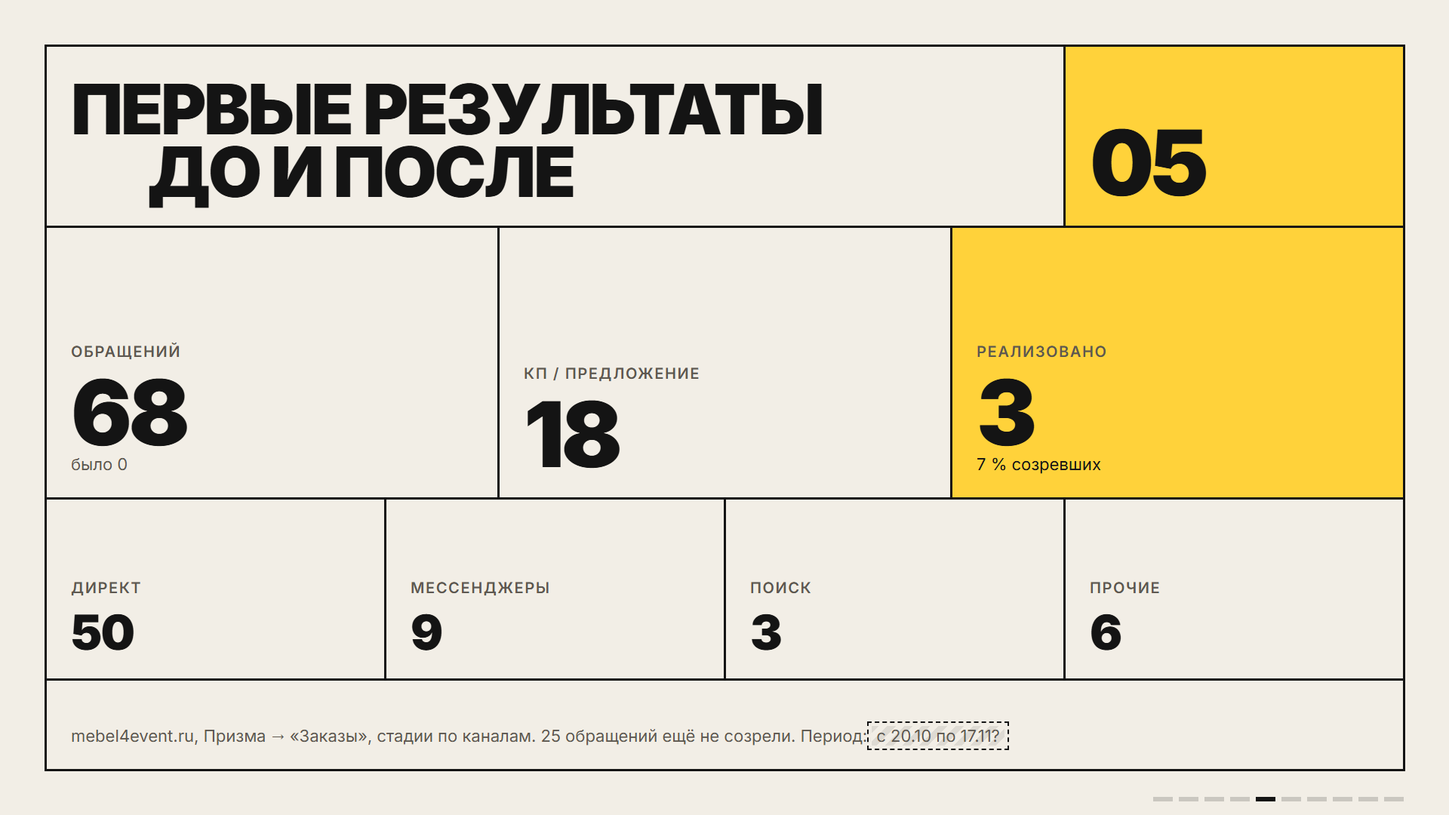
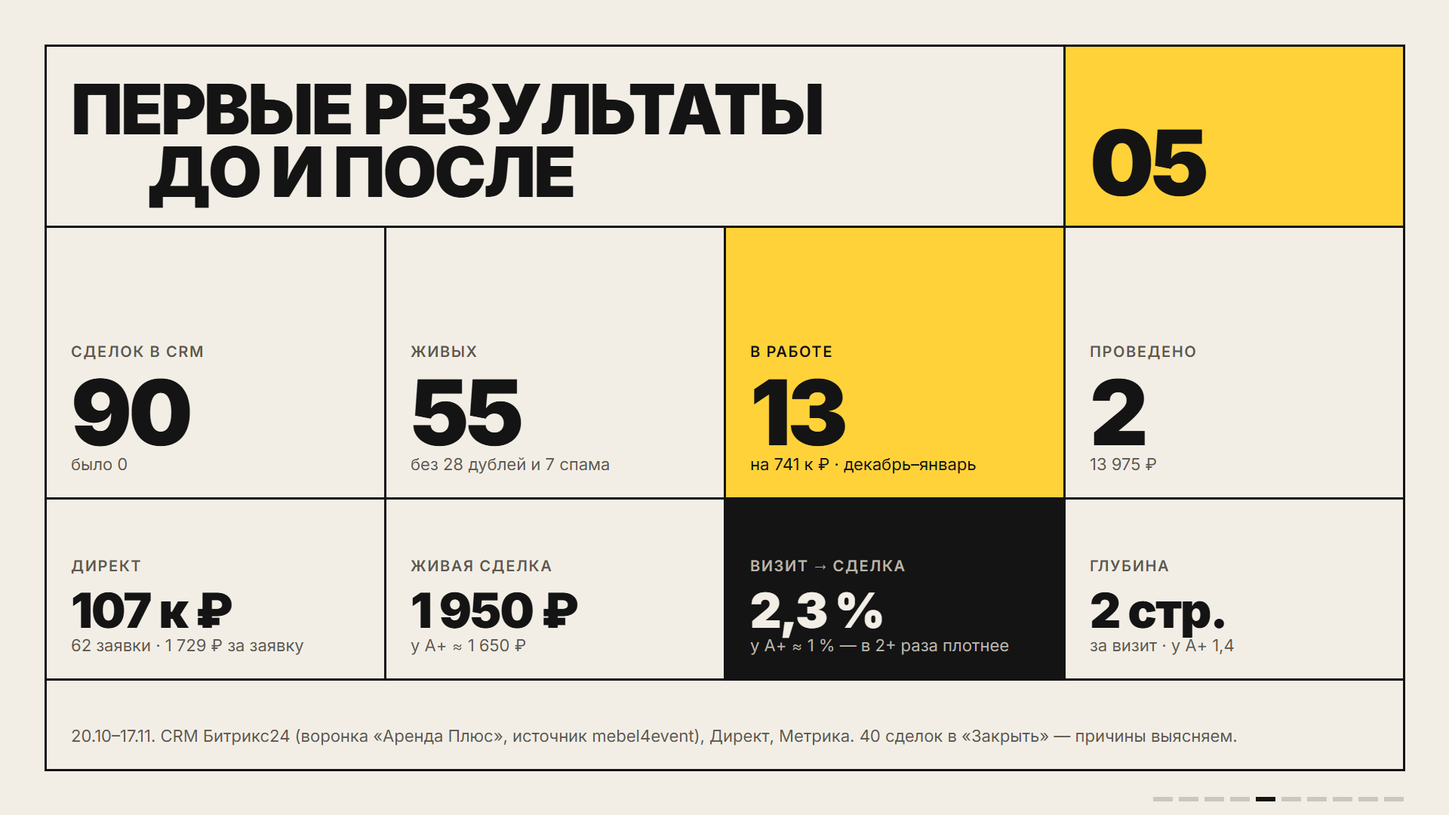
Преза Фабрики: данные CRM, Директа, Метрики, расчёт под план и тематики (Связь т.11 №196)

diff --git a/index.html b/index.html
@@ -31,13 +31,14 @@
     <div class="grid">
       <div class="c" style="grid-area: 1 / 1 / 3 / 10"><h2>Как работали<br><span class="shift">до внедрения</span></h2></div>
       <div class="c a" style="grid-area: 1 / 10 / 3 / 13"><p class="big">02</p></div>
-      <div class="c" style="grid-area: 3 / 1 / 5 / 5"><p class="k">Проблема</p><p>Трафику Аренды+ нужны сайты под кластеры спроса: шатры, мебель, питание, активности</p></div>
-      <div class="c" style="grid-area: 3 / 5 / 5 / 9"><p class="k">Как делали</p><p>Каждый сайт — вёрстка руками: дизайн, каталог, цены, фото, формы заявок</p></div>
-      <div class="c" style="grid-area: 3 / 9 / 5 / 13"><p class="k">Источник</p><p>Чат «Увеличение трафика Аренда+», 30.09</p></div>
-      <div class="c" style="grid-area: 5 / 1 / 7 / 5"><p class="k">Время на сайт</p><p class="mid-n">недели</p><p class="small">оценка, замера не было</p></div>
-      <div class="c" style="grid-area: 5 / 5 / 7 / 9"><p class="k">Сайтов под ниши</p><p class="mid-n">0</p></div>
-      <div class="c" style="grid-area: 5 / 9 / 7 / 13"><p class="k">Обращений с них</p><p class="mid-n">0</p></div>
-      <div class="c" style="grid-area: 7 / 1 / 9 / 13"><p class="small">Исходная точка — ноль нишевых сайтов: сравниваем не «быстрее», а «было ничего — стали обращения».</p></div>
+      <div class="c" style="grid-area: 3 / 1 / 5 / 5"><p class="k">Проблема</p><p>Трафику Аренды+ нужны сайты под кластеры спроса: шатры, мебель, кейтеринг, активности</p></div>
+      <div class="c" style="grid-area: 3 / 5 / 5 / 9"><p class="k">Как делали</p><p>Каждый сайт — вёрстка руками: дизайн, каталог, цены, фото, заявки. Недели на сайт</p></div>
+      <div class="c" style="grid-area: 3 / 9 / 5 / 13"><p class="k">Нишевых сайтов</p><p class="mid-n">0</p><p class="small">весь спрос — на один сайт А+</p></div>
+      <div class="c" style="grid-area: 5 / 1 / 8 / 4"><p class="k">А+ · визитов в день</p><p class="mid-n">5–7 тыс.</p><p class="small">октябрь–ноябрь</p></div>
+      <div class="c" style="grid-area: 5 / 4 / 8 / 7"><p class="k">Визит → живая сделка</p><p class="mid-n">≈1 %</p><p class="small">~1,5 тыс. сделок в месяц</p></div>
+      <div class="c" style="grid-area: 5 / 7 / 8 / 10"><p class="k">Сделка → мероприятие</p><p class="mid-n">16 %</p><p class="small">мебель — 12 %</p></div>
+      <div class="c" style="grid-area: 5 / 10 / 8 / 13"><p class="k">Средний чек</p><p class="mid-n">126 к ₽</p><p class="small">мебель — 80 к ₽</p></div>
+      <div class="c" style="grid-area: 8 / 1 / 9 / 13"><p class="small">Сделки А+, созданные в сентябре 2026, без дублей и спама: 1 572 живых → 251 мероприятие → 31,7 млн ₽. CRM Битрикс24, Метрика 24366505.</p></div>
     </div>
   </section>
 
@@ -61,10 +62,10 @@
       <div class="c a" style="grid-area: 1 / 10 / 3 / 13"><p class="big">04</p></div>
       <div class="c pic" style="grid-area: 3 / 1 / 8 / 7"><img class="shot" src="media/mebel.png" alt=""></div>
       <div class="c mid" style="grid-area: 8 / 1 / 9 / 7"><p><a href="https://mebel4event.ru">mebel4event.ru</a> — «Лучшая мебель»</p></div>
-      <div class="c" style="grid-area: 3 / 7 / 5 / 10"><p class="k">С 20 октября</p><p>Сайт в воронке А+: 1 700 позиций, 131 раздел, заявки в Битрикс</p></div>
-      <div class="c" style="grid-area: 3 / 10 / 5 / 13"><p class="k">С 16 ноября</p><p>Стили художников: Малевич, Матисс, Лисицкий, Корбюзье, Калатрава, Мо-Фокеев</p></div>
-      <div class="c" style="grid-area: 5 / 7 / 7 / 13"><p class="k">Кто пользуется</p><p>Контент: собирает сайт в мастере, а не верстает. Менеджеры А+ — принимают обращения с сайта</p></div>
-      <div class="c" style="grid-area: 7 / 7 / 9 / 13"><p class="k">Ограничения</p><p>Пока один боевой сайт. После падения хостинга 02.11 Фабрика переехала на новый сервер</p></div>
+      <div class="c" style="grid-area: 3 / 7 / 5 / 10"><p class="k">С 20 октября</p><p>1 700 позиций, 131 раздел, заявки в Битрикс</p></div>
+      <div class="c" style="grid-area: 3 / 10 / 5 / 13"><p class="k">С 21 октября</p><p>Директ: поиск и товарная кампания</p></div>
+      <div class="c" style="grid-area: 5 / 7 / 7 / 13"><p class="k">Кто пользуется</p><p>Контент собирает сайт в мастере. Менеджеры А+ ведут сделки с сайта в общей воронке — 90 сделок за 4 недели</p></div>
+      <div class="c" style="grid-area: 7 / 7 / 9 / 13"><p class="k">Ограничения</p><p>Один боевой сайт. 2–8 ноября — падение хостинга, реклама вела в пустоту. Стадии сделок не уходят в Метрику</p></div>
     </div>
   </section>
 
@@ -72,14 +73,15 @@
     <div class="grid">
       <div class="c" style="grid-area: 1 / 1 / 3 / 10"><h2>Первые результаты<br><span class="shift">до и после</span></h2></div>
       <div class="c a" style="grid-area: 1 / 10 / 3 / 13"><p class="big">05</p></div>
-      <div class="c" style="grid-area: 3 / 1 / 6 / 5"><p class="k">Обращений</p><p class="big">68</p><p class="small">было 0</p></div>
-      <div class="c" style="grid-area: 3 / 5 / 6 / 9"><p class="k">КП / предложение</p><p class="big">18</p></div>
-      <div class="c a" style="grid-area: 3 / 9 / 6 / 13"><p class="k">Реализовано</p><p class="big">3</p><p class="small" style="color: var(--ink)">7 % созревших</p></div>
-      <div class="c" style="grid-area: 6 / 1 / 8 / 4"><p class="k">Директ</p><p class="mid-n">50</p></div>
-      <div class="c" style="grid-area: 6 / 4 / 8 / 7"><p class="k">Мессенджеры</p><p class="mid-n">9</p></div>
-      <div class="c" style="grid-area: 6 / 7 / 8 / 10"><p class="k">Поиск</p><p class="mid-n">3</p></div>
-      <div class="c" style="grid-area: 6 / 10 / 8 / 13"><p class="k">Прочие</p><p class="mid-n">6</p></div>
-      <div class="c" style="grid-area: 8 / 1 / 9 / 13"><p class="small">mebel4event.ru, Призма → «Заказы», стадии по каналам. 25 обращений ещё не созрели. Период: <em class="todo">с 20.10 по 17.11?</em></p></div>
+      <div class="c" style="grid-area: 3 / 1 / 6 / 4"><p class="k">Сделок в CRM</p><p class="big">90</p><p class="small">было 0</p></div>
+      <div class="c" style="grid-area: 3 / 4 / 6 / 7"><p class="k">Живых</p><p class="big">55</p><p class="small">без 28 дублей и 7 спама</p></div>
+      <div class="c a" style="grid-area: 3 / 7 / 6 / 10"><p class="k" style="color: var(--ink)">В работе</p><p class="big">13</p><p class="small" style="color: var(--ink)">на 741 к ₽ · декабрь–январь</p></div>
+      <div class="c" style="grid-area: 3 / 10 / 6 / 13"><p class="k">Проведено</p><p class="big">2</p><p class="small">13 975 ₽</p></div>
+      <div class="c" style="grid-area: 6 / 1 / 8 / 4"><p class="k">Директ</p><p class="mid-n">107 к ₽</p><p class="small">62 заявки · 1 729 ₽ за заявку</p></div>
+      <div class="c" style="grid-area: 6 / 4 / 8 / 7"><p class="k">Живая сделка</p><p class="mid-n">1 950 ₽</p><p class="small">у А+ ≈ 1 650 ₽</p></div>
+      <div class="c d" style="grid-area: 6 / 7 / 8 / 10"><p class="k">Визит → сделка</p><p class="mid-n">2,3 %</p><p class="small">у А+ ≈ 1 % — в 2+ раза плотнее</p></div>
+      <div class="c" style="grid-area: 6 / 10 / 8 / 13"><p class="k">Глубина</p><p class="mid-n">2 стр.</p><p class="small">за визит · у А+ 1,4</p></div>
+      <div class="c" style="grid-area: 8 / 1 / 9 / 13"><p class="small">20.10–17.11. CRM Битрикс24 (воронка «Аренда Плюс», источник mebel4event), Директ, Метрика. 40 сделок в «Закрыть» — причины выясняем.</p></div>
     </div>
   </section>
 
@@ -87,10 +89,11 @@
     <div class="grid">
       <div class="c" style="grid-area: 1 / 1 / 3 / 10"><h2>Какой эффект<br><span class="shift">ждём в декабре</span></h2></div>
       <div class="c a" style="grid-area: 1 / 10 / 3 / 13"><p class="big">06</p></div>
-      <div class="c" style="grid-area: 3 / 1 / 6 / 7"><p class="k">Расход</p><p class="mid-n">106 784,72 ₽</p><p class="small">с НДС</p></div>
-      <div class="c" style="grid-area: 3 / 7 / 6 / 13"><p class="k">Доход</p><p class="mid-n"><em class="todo">от Саши</em></p><p class="small">по реализованным сделкам в Битриксе</p></div>
-      <div class="c d" style="grid-area: 6 / 1 / 9 / 7"><p class="k">Формула</p><p class="lead">Эффект = доход по сделкам сайтов − расход</p></div>
-      <div class="c" style="grid-area: 6 / 7 / 9 / 13"><p class="k">Допущения</p><p>Считаем только обращения с меткой сайта. В декабре — сезон: <em class="todo">цель по обращениям и сайтам</em></p></div>
+      <div class="c" style="grid-area: 3 / 1 / 6 / 5"><p class="k">Сейчас</p><p class="mid-n">14 к / 107 к</p><p class="small">проведено против рекламы: прошёл месяц, брони — на сезон</p></div>
+      <div class="c a" style="grid-area: 3 / 5 / 6 / 9"><p class="k" style="color: var(--ink)">Когда дозреет</p><p class="mid-n">≈ 530 к ₽</p><p class="small" style="color: var(--ink)">55 сделок × 12 % × 80 к — ×5 к рекламе</p></div>
+      <div class="c" style="grid-area: 3 / 9 / 6 / 13"><p class="k">Окупаемость</p><p class="mid-n">15 %</p><p class="small">из 741 к открытых сделок</p></div>
+      <div class="c d" style="grid-area: 6 / 1 / 9 / 7"><p class="k">План А+ на декабрь — 100 млн ₽</p><p class="lead">Закрыть разрыв только сайтами — 60–130 штук: к декабрю нереально. 5–10 сайтов — это +3–10 млн ₽ в месяц, с января</p></div>
+      <div class="c" style="grid-area: 6 / 7 / 9 / 13"><p class="k">Один нишевый сайт</p><p class="mid-n">0,5–1,1 млн ₽</p><p class="small">в месяц после обучения рекламы, при ~100 к ₽ бюджета. 0,5 — чек мебели, 1,1 — средний чек А+. Расчёт, не факт</p></div>
     </div>
   </section>
 
@@ -98,11 +101,22 @@
     <div class="grid">
       <div class="c" style="grid-area: 1 / 1 / 3 / 10"><h2>Как обеспечим<br><span class="shift">использование</span></h2></div>
       <div class="c a" style="grid-area: 1 / 10 / 3 / 13"><p class="big">07</p></div>
-      <div class="c" style="grid-area: 3 / 1 / 6 / 5"><p class="k">Руководители воронок</p><p>Заказывают сайт под свой кластер спроса</p></div>
-      <div class="c" style="grid-area: 3 / 5 / 6 / 9"><p class="k">Контент-отдел</p><p>Собирает сайт в мастере и публикует</p></div>
-      <div class="c" style="grid-area: 3 / 9 / 6 / 13"><p class="k">Менеджеры А+</p><p>Ведут обращения в Битриксе, как с основного сайта</p></div>
-      <div class="c" style="grid-area: 6 / 1 / 9 / 7"><p class="k">Доступ и обучение</p><p>Мастер по паролю, разбор первого сайта вместе с контентом</p></div>
-      <div class="c a" style="grid-area: 6 / 7 / 9 / 13"><p class="k" style="color: var(--ink)">Цель декабря</p><p class="lead"><em class="todo">N сайтов, M обращений</em></p></div>
+      <div class="c mid" style="grid-area: 3 / 1 / 4 / 5"><p class="k">Ниша · сентябрь А+</p></div>
+      <div class="c mid" style="grid-area: 3 / 5 / 4 / 9"><p class="k">Выручка</p></div>
+      <div class="c mid" style="grid-area: 3 / 9 / 4 / 13"><p class="k">Чек</p></div>
+      <div class="c mid a" style="grid-area: 4 / 1 / 5 / 5"><p class="n">Кейтеринг</p></div>
+      <div class="c mid" style="grid-area: 4 / 5 / 5 / 9"><p class="n">5,0 млн</p></div>
+      <div class="c mid" style="grid-area: 4 / 9 / 5 / 13"><p class="n">360 к</p></div>
+      <div class="c mid a" style="grid-area: 5 / 1 / 6 / 5"><p class="n">Фиджитал</p></div>
+      <div class="c mid" style="grid-area: 5 / 5 / 6 / 9"><p class="n">3,9 млн</p></div>
+      <div class="c mid" style="grid-area: 5 / 9 / 6 / 13"><p class="n">230 к</p></div>
+      <div class="c mid a" style="grid-area: 6 / 1 / 7 / 5"><p class="n">Шатры</p></div>
+      <div class="c mid" style="grid-area: 6 / 5 / 7 / 9"><p class="n">3,6 млн</p></div>
+      <div class="c mid" style="grid-area: 6 / 9 / 7 / 13"><p class="n">180 к</p></div>
+      <div class="c mid a" style="grid-area: 7 / 1 / 8 / 5"><p class="n">Комплексные</p></div>
+      <div class="c mid" style="grid-area: 7 / 5 / 8 / 9"><p class="n">3,1 млн</p></div>
+      <div class="c mid" style="grid-area: 7 / 9 / 8 / 13"><p class="n">340 к</p></div>
+      <div class="c mid" style="grid-area: 8 / 1 / 9 / 13"><p>Цель: <b>5–10 сайтов</b> в нишах с крупным чеком. Собирает контент-отдел, сделки ведут менеджеры воронок, ~100 к ₽ рекламы на сайт.</p></div>
     </div>
   </section>
 
@@ -110,11 +124,13 @@
     <div class="grid">
       <div class="c" style="grid-area: 1 / 1 / 3 / 10"><h2>Что доделать<br><span class="shift">до сезона</span></h2></div>
       <div class="c a" style="grid-area: 1 / 10 / 3 / 13"><p class="big">08</p></div>
-      <div class="c" style="grid-area: 3 / 1 / 5 / 7"><p class="k">P0</p><p>Перевести www.mebel4event.ru на новый сервер</p></div>
-      <div class="c" style="grid-area: 3 / 7 / 5 / 13"><p class="k">P0</p><p>Генерация текстов на новом сервере — нужен ключ</p></div>
-      <div class="c" style="grid-area: 5 / 1 / 7 / 7"><p class="k">P1</p><p>Стили художников: мобильная и внутренние страницы</p></div>
-      <div class="c" style="grid-area: 5 / 7 / 7 / 13"><p class="k">P1</p><p>Поиск по сайту без MySQL</p></div>
-      <div class="c d" style="grid-area: 7 / 1 / 9 / 13"><p class="k">Нужна помощь</p><p>Доступ к DNS домена · сервер и ключи у Саши · <em class="todo">сроки и ответственные</em></p></div>
+      <div class="c" style="grid-area: 3 / 1 / 5 / 5"><p class="k">P0 · до 25.11</p><p>Стадии сделок → Метрика: Директ учится на продажах, а не на заявках</p></div>
+      <div class="c" style="grid-area: 3 / 5 / 5 / 9"><p class="k">P0 · до 25.11</p><p>Свой телефон и своя ниша у каждого сайта — иначе Директ склеит наши объявления</p></div>
+      <div class="c" style="grid-area: 3 / 9 / 5 / 13"><p class="k">P0 · до 25.11</p><p>Товарная кампания: CR 1,7 % против 8,5 % у поиска — переделать или выключить</p></div>
+      <div class="c" style="grid-area: 5 / 1 / 7 / 5"><p class="k">P1 · до 30.11</p><p>Автосклейка дублей: 28 из 90 — ручная работа менеджеров</p></div>
+      <div class="c" style="grid-area: 5 / 5 / 7 / 9"><p class="k">P1 · до 30.11</p><p>Причины «Закрыть» (40 из 55): чинить сайт, рекламу или обработку</p></div>
+      <div class="c" style="grid-area: 5 / 9 / 7 / 13"><p class="k">P1 · до 30.11</p><p>Первые 5 сайтов в новых нишах, стили на мобильной</p></div>
+      <div class="c d" style="grid-area: 7 / 1 / 9 / 13"><p class="k">Нужна помощь</p><p>Директ и стадии в Метрику — Игорь Дубовицкий · телефоны UIS под сайты · сервер — Саша. Сроки предложены командой</p></div>
     </div>
   </section>
 
@@ -122,27 +138,27 @@
     <div class="grid">
       <div class="c" style="grid-area: 1 / 1 / 3 / 10"><h2>Как подтвердим<br><span class="shift">итог декабря</span></h2></div>
       <div class="c a" style="grid-area: 1 / 10 / 3 / 13"><p class="big">09</p></div>
-      <div class="c" style="grid-area: 3 / 1 / 4 / 4"><p class="k">Метрика</p></div>
-      <div class="c" style="grid-area: 3 / 4 / 4 / 7"><p class="k">Сейчас</p></div>
-      <div class="c" style="grid-area: 3 / 7 / 4 / 10"><p class="k">Цель декабря</p></div>
-      <div class="c" style="grid-area: 3 / 10 / 4 / 13"><p class="k">Источник</p></div>
-      <div class="c mid" style="grid-area: 4 / 1 / 5 / 4"><p class="n">Обращения</p></div>
-      <div class="c mid" style="grid-area: 4 / 4 / 5 / 7"><p class="n">68</p></div>
-      <div class="c mid" style="grid-area: 4 / 7 / 5 / 10"><p><em class="todo">?</em></p></div>
-      <div class="c mid" style="grid-area: 4 / 10 / 5 / 13"><p>Призма, «Заказы»</p></div>
-      <div class="c mid" style="grid-area: 5 / 1 / 6 / 4"><p class="n">Реализовано</p></div>
-      <div class="c mid" style="grid-area: 5 / 4 / 6 / 7"><p class="n">3</p></div>
-      <div class="c mid" style="grid-area: 5 / 7 / 6 / 10"><p><em class="todo">?</em></p></div>
-      <div class="c mid" style="grid-area: 5 / 10 / 6 / 13"><p>Битрикс</p></div>
-      <div class="c mid" style="grid-area: 6 / 1 / 7 / 4"><p class="n">Доход</p></div>
-      <div class="c mid" style="grid-area: 6 / 4 / 7 / 7"><p><em class="todo">Саша</em></p></div>
-      <div class="c mid" style="grid-area: 6 / 7 / 7 / 10"><p><em class="todo">?</em></p></div>
-      <div class="c mid" style="grid-area: 6 / 10 / 7 / 13"><p>Битрикс, сделки</p></div>
-      <div class="c mid" style="grid-area: 7 / 1 / 8 / 4"><p class="n">Сайтов</p></div>
-      <div class="c mid" style="grid-area: 7 / 4 / 8 / 7"><p class="n">1</p></div>
-      <div class="c mid" style="grid-area: 7 / 7 / 8 / 10"><p><em class="todo">?</em></p></div>
-      <div class="c mid" style="grid-area: 7 / 10 / 8 / 13"><p>Мастер Фабрики</p></div>
-      <div class="c mid" style="grid-area: 8 / 1 / 9 / 13"><p class="small">Период: 1–31 декабря 2026. Итоги — <em class="todo">дата</em>. Ответственный — Мария Голубкова.</p></div>
+      <div class="c mid" style="grid-area: 3 / 1 / 4 / 4"><p class="k">Метрика</p></div>
+      <div class="c mid" style="grid-area: 3 / 4 / 4 / 7"><p class="k">Сейчас</p></div>
+      <div class="c mid" style="grid-area: 3 / 7 / 4 / 10"><p class="k">Цель декабря</p></div>
+      <div class="c mid" style="grid-area: 3 / 10 / 4 / 13"><p class="k">Источник</p></div>
+      <div class="c mid" style="grid-area: 4 / 1 / 5 / 4"><p class="n">Сайтов</p></div>
+      <div class="c mid" style="grid-area: 4 / 4 / 5 / 7"><p class="n">1</p></div>
+      <div class="c mid" style="grid-area: 4 / 7 / 5 / 10"><p class="n">5–10</p></div>
+      <div class="c mid" style="grid-area: 4 / 10 / 5 / 13"><p>Мастер Фабрики</p></div>
+      <div class="c mid" style="grid-area: 5 / 1 / 6 / 4"><p class="n">Живых сделок</p></div>
+      <div class="c mid" style="grid-area: 5 / 4 / 6 / 7"><p class="n">55 в мес.</p></div>
+      <div class="c mid" style="grid-area: 5 / 7 / 6 / 10"><p class="n">250+ в мес.</p></div>
+      <div class="c mid" style="grid-area: 5 / 10 / 6 / 13"><p>CRM, источник сайта</p></div>
+      <div class="c mid" style="grid-area: 6 / 1 / 7 / 4"><p class="n">Цена сделки</p></div>
+      <div class="c mid" style="grid-area: 6 / 4 / 7 / 7"><p class="n">1 950 ₽</p></div>
+      <div class="c mid" style="grid-area: 6 / 7 / 7 / 10"><p class="n">≤ 1 650 ₽</p></div>
+      <div class="c mid" style="grid-area: 6 / 10 / 7 / 13"><p>Директ + CRM</p></div>
+      <div class="c mid" style="grid-area: 7 / 1 / 8 / 4"><p class="n">Выручка / реклама</p></div>
+      <div class="c mid" style="grid-area: 7 / 4 / 8 / 7"><p class="n">0,13</p></div>
+      <div class="c mid" style="grid-area: 7 / 7 / 8 / 10"><p class="n">≥ 3</p></div>
+      <div class="c mid" style="grid-area: 7 / 10 / 8 / 13"><p>CRM, проведённые</p></div>
+      <div class="c mid" style="grid-area: 8 / 1 / 9 / 13"><p class="small">Период: 1–31 декабря 2026. Итоги — 15 января 2027, когда брони декабря проведены. Ответственный — Мария Голубкова. Цели предложены командой.</p></div>
     </div>
   </section>
 
@@ -150,9 +166,9 @@
     <div class="grid">
       <div class="c" style="grid-area: 1 / 1 / 3 / 10"><h2>Итог и<br><span class="shift">обязательства</span></h2></div>
       <div class="c a" style="grid-area: 1 / 10 / 3 / 13"><p class="big">10</p></div>
-      <div class="c top" style="grid-area: 3 / 1 / 7 / 5"><p class="k">Работает</p><p>Мастер собирает сайт из каталога А+. «Лучшая мебель» живёт с 20 октября, обращения идут в Битрикс</p></div>
-      <div class="c top" style="grid-area: 3 / 5 / 7 / 9"><p class="k">Подтверждено</p><p>68 обращений и 3 реализованных заказа с сайта, которого раньше не было</p></div>
-      <div class="c top" style="grid-area: 3 / 9 / 7 / 13"><p class="k">Обязуемся</p><p>До сезона — доделать P0. В декабре — <em class="todo">N сайтов</em> и учёт дохода по каждому</p></div>
+      <div class="c top" style="grid-area: 3 / 1 / 7 / 5"><p class="k">Работает</p><p>Мастер собирает сайт из каталога А+. «Лучшая мебель» с 20 октября: 90 сделок в CRM, 13 в работе на 741 к ₽</p></div>
+      <div class="c top" style="grid-area: 3 / 5 / 7 / 9"><p class="k">Подтверждено</p><p>Сделка с нишевого сайта стоит как с основной рекламы, а визит конвертируется в 2+ раза плотнее. Денег пока 14 к из 107 к — брони на сезон</p></div>
+      <div class="c top" style="grid-area: 3 / 9 / 7 / 13"><p class="k">Обязуемся</p><p>До 30.11 — продажи в Метрику и 5 сайтов в нишах с крупным чеком. 15 января — выручка против рекламы по каждому сайту</p></div>
       <div class="c d" style="grid-area: 7 / 1 / 9 / 13"><h2 style="font-size: 76px">Сайт под нишу — без вёрстки руками</h2></div>
     </div>
   </section>
